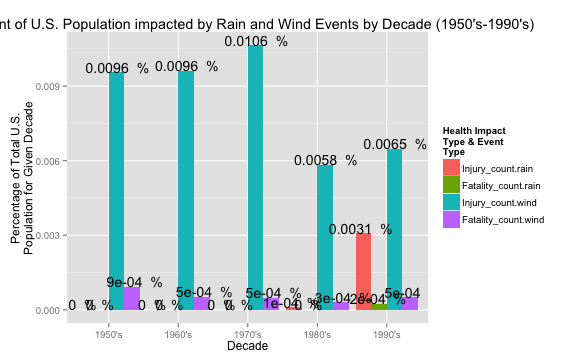
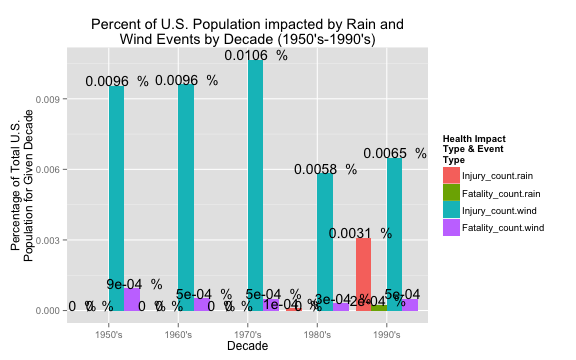
PA2_template.Rmd final edits.

diff --git a/RepData_PeerAssessment2/PA2_template.html b/RepData_PeerAssessment2/PA2_template.html
@@ -742,7 +742,7 @@ library(ggplot2)
 ggplot(health_by_decade_long, aes(x = decade, y = value, fill = type_var)) + 
   geom_bar(position = &quot;dodge&quot;, stat = &quot;identity&quot;) +
   labs(x = &quot;Decade&quot;, y = &quot;Percentage of Total U.S.\nPopulation for Given Decade&quot;,
-    title = &quot;Percent of U.S. Population impacted by Rain and Wind Events by Decade (1950&#39;s-1990&#39;s)&quot;) +
+    title = &quot;Percent of U.S. Population impacted by Rain and\nWind Events by Decade (1950&#39;s-1990&#39;s)&quot;) +
   scale_fill_discrete(name = &quot;Health Impact\nType &amp; Event\nType&quot;) +
   geom_text(aes(
     label = paste(round(value, digits = 4), &quot; %&quot;), ymax = 0),
@@ -775,27 +775,27 @@ library(ggplot2)
 plot_crop &lt;- ggplot(economic_by_event_crop, aes(x = event, y = usd_mil)) + 
   geom_bar(fill = &quot;white&quot;, colour = &quot;darkgreen&quot;, stat = &quot;identity&quot;) +
   labs(x = &quot;Weather Event&quot;, y = &quot;Total Crop Damage (in millions of dollars USD)&quot;,
-    title = &quot;Cost of Crop Damage per Weather Event\nin the United States (1950-2011)&quot;) +
+    title = &quot;Crop&quot;) +
   geom_text(aes(
     label = paste(&quot;$&quot;, formatC(round(usd_mil, digits = 1), format = &quot;d&quot;, big.mark = &quot;,&quot;, small.mark = &quot;.&quot;, width = 2), sep = &quot;&quot;), ymax = 0),
     size = 5, vjust = 0)
 plot_property &lt;- ggplot(economic_by_event_property, aes(x = event, y = usd_mil)) + 
   geom_bar(fill = &quot;white&quot;, colour = &quot;darkgreen&quot;, stat = &quot;identity&quot;) +
   labs(x = &quot;Weather Event&quot;, y = &quot;Total Property Damage (in millions of dollars USD)&quot;,
-    title = &quot;Cost of Property Damage per Weather Event\nin the United States (1950-2011)&quot;) +
+    title = &quot;Property&quot;) +
   geom_text(aes(
     label = paste(&quot;$&quot;, formatC(round(usd_mil, digits = 1), format = &quot;d&quot;, big.mark = &quot;,&quot;, small.mark = &quot;.&quot;, width = 2), sep = &quot;&quot;), ymax = 0),
     size = 5, vjust = 0)
 plot_total &lt;- ggplot(economic_by_event_total, aes(x = event, y = usd_mil)) + 
   geom_bar(fill = &quot;white&quot;, colour = &quot;darkgreen&quot;, stat = &quot;identity&quot;) +
   labs(x = &quot;Weather Event&quot;, y = &quot;Total Property + Crop Damage (in millions of dollars USD)&quot;,
-    title = &quot;Cost of Property and Crop Damage per Weather Event\nin the United States (1950-2011)&quot;) +
+    title = &quot;Total&quot;) +
   geom_text(aes(
     label = paste(&quot;$&quot;, formatC(round(usd_mil, digits = 1), format = &quot;d&quot;, big.mark = &quot;,&quot;, small.mark = &quot;.&quot;, width = 2), sep = &quot;&quot;), ymax = 0),
     size = 5, vjust = 0)
 # Make a single plot with all three plots together
 library(gridExtra)
-print(arrangeGrob(plot_crop ,plot_property, plot_total, ncol=3))
+print(arrangeGrob(plot_crop ,plot_property, plot_total, ncol=3, main = &quot;\nCost of Damage per Weather Event in the United States (1950-2011)&quot;))
 </code></pre>
 
 <p><img src="https://raw.githubusercontent.com/atet/coursera/master/RepData_PeerAssessment2/figure/figure3.png" alt="Alt text"/></p>
@@ -806,10 +806,13 @@ print(arrangeGrob(plot_crop ,plot_property, plot_total, ncol=3))
 
 <h2>4. Discussion</h2>
 
-<p><strong>Across the United States, which types of events (as indicated in the EVTYPE variable) are most harmful with respect to population health?</strong>
-Comparing the NOAA weather event dataset to U.S. Census population values, we can see that wind type events caused a larger impact to population health by decade when only considering rain and wind events and decades from 1950-1990. With more current U.S. Census data and more detailed pre-1996 NOAA event data, a more thorough analysis could be performed.</p>
+<p><strong>Across the United States, which types of events (as indicated in the EVTYPE variable) are most harmful with respect to population health?</strong></p>
+
+<p>Comparing the NOAA weather event dataset to U.S. Census population values, we can see that wind type events caused a larger impact to population health by decade when only considering rain and wind events and decades from 1950-1990. With more current U.S. Census data and more detailed pre-1996 NOAA event data, a more thorough analysis could be performed.</p>
 
 <p><strong>Across the United States, which types of events have the greatest economic consequences?</strong></p>
+
+<p>From the NOAA weather event dataset, we see that rain-related weather events have caused more total damage than other events for property and property+crop damages from 1950-2011. For total crop damages during that time, heat-related weather events resulted in the most damage. With more detailed pre-1996 NOAA event data, a more thorough analysis could be performed.</p>
 
 <hr/>
 

diff --git a/RepData_PeerAssessment2/PA2_template.md b/RepData_PeerAssessment2/PA2_template.md
@@ -497,7 +497,7 @@ library(ggplot2)
 ggplot(health_by_decade_long, aes(x = decade, y = value, fill = type_var)) + 
   geom_bar(position = "dodge", stat = "identity") +
   labs(x = "Decade", y = "Percentage of Total U.S.\nPopulation for Given Decade",
-    title = "Percent of U.S. Population impacted by Rain and Wind Events by Decade (1950's-1990's)") +
+    title = "Percent of U.S. Population impacted by Rain and\nWind Events by Decade (1950's-1990's)") +
   scale_fill_discrete(name = "Health Impact\nType & Event\nType") +
   geom_text(aes(
     label = paste(round(value, digits = 4), " %"), ymax = 0),
@@ -532,27 +532,27 @@ library(ggplot2)
 plot_crop <- ggplot(economic_by_event_crop, aes(x = event, y = usd_mil)) + 
   geom_bar(fill = "white", colour = "darkgreen", stat = "identity") +
   labs(x = "Weather Event", y = "Total Crop Damage (in millions of dollars USD)",
-    title = "Cost of Crop Damage per Weather Event\nin the United States (1950-2011)") +
+    title = "Crop") +
   geom_text(aes(
     label = paste("$", formatC(round(usd_mil, digits = 1), format = "d", big.mark = ",", small.mark = ".", width = 2), sep = ""), ymax = 0),
     size = 5, vjust = 0)
 plot_property <- ggplot(economic_by_event_property, aes(x = event, y = usd_mil)) + 
   geom_bar(fill = "white", colour = "darkgreen", stat = "identity") +
   labs(x = "Weather Event", y = "Total Property Damage (in millions of dollars USD)",
-    title = "Cost of Property Damage per Weather Event\nin the United States (1950-2011)") +
+    title = "Property") +
   geom_text(aes(
     label = paste("$", formatC(round(usd_mil, digits = 1), format = "d", big.mark = ",", small.mark = ".", width = 2), sep = ""), ymax = 0),
     size = 5, vjust = 0)
 plot_total <- ggplot(economic_by_event_total, aes(x = event, y = usd_mil)) + 
   geom_bar(fill = "white", colour = "darkgreen", stat = "identity") +
   labs(x = "Weather Event", y = "Total Property + Crop Damage (in millions of dollars USD)",
-    title = "Cost of Property and Crop Damage per Weather Event\nin the United States (1950-2011)") +
+    title = "Total") +
   geom_text(aes(
     label = paste("$", formatC(round(usd_mil, digits = 1), format = "d", big.mark = ",", small.mark = ".", width = 2), sep = ""), ymax = 0),
     size = 5, vjust = 0)
 # Make a single plot with all three plots together
 library(gridExtra)
-print(arrangeGrob(plot_crop ,plot_property, plot_total, ncol=3))
+print(arrangeGrob(plot_crop ,plot_property, plot_total, ncol=3, main = "\nCost of Damage per Weather Event in the United States (1950-2011)"))
 ```
 
 ![Alt text](https://raw.githubusercontent.com/atet/coursera/master/RepData_PeerAssessment2/figure/figure3.png)
@@ -564,8 +564,11 @@ print(arrangeGrob(plot_crop ,plot_property, plot_total, ncol=3))
 ## 4. Discussion
 
 **Across the United States, which types of events (as indicated in the EVTYPE variable) are most harmful with respect to population health?**
+
 Comparing the NOAA weather event dataset to U.S. Census population values, we can see that wind type events caused a larger impact to population health by decade when only considering rain and wind events and decades from 1950-1990. With more current U.S. Census data and more detailed pre-1996 NOAA event data, a more thorough analysis could be performed.
 
 **Across the United States, which types of events have the greatest economic consequences?**
+
+From the NOAA weather event dataset, we see that rain-related weather events have caused more total damage than other events for property and property+crop damages from 1950-2011. For total crop damages during that time, heat-related weather events resulted in the most damage. With more detailed pre-1996 NOAA event data, a more thorough analysis could be performed.
 
 ---
